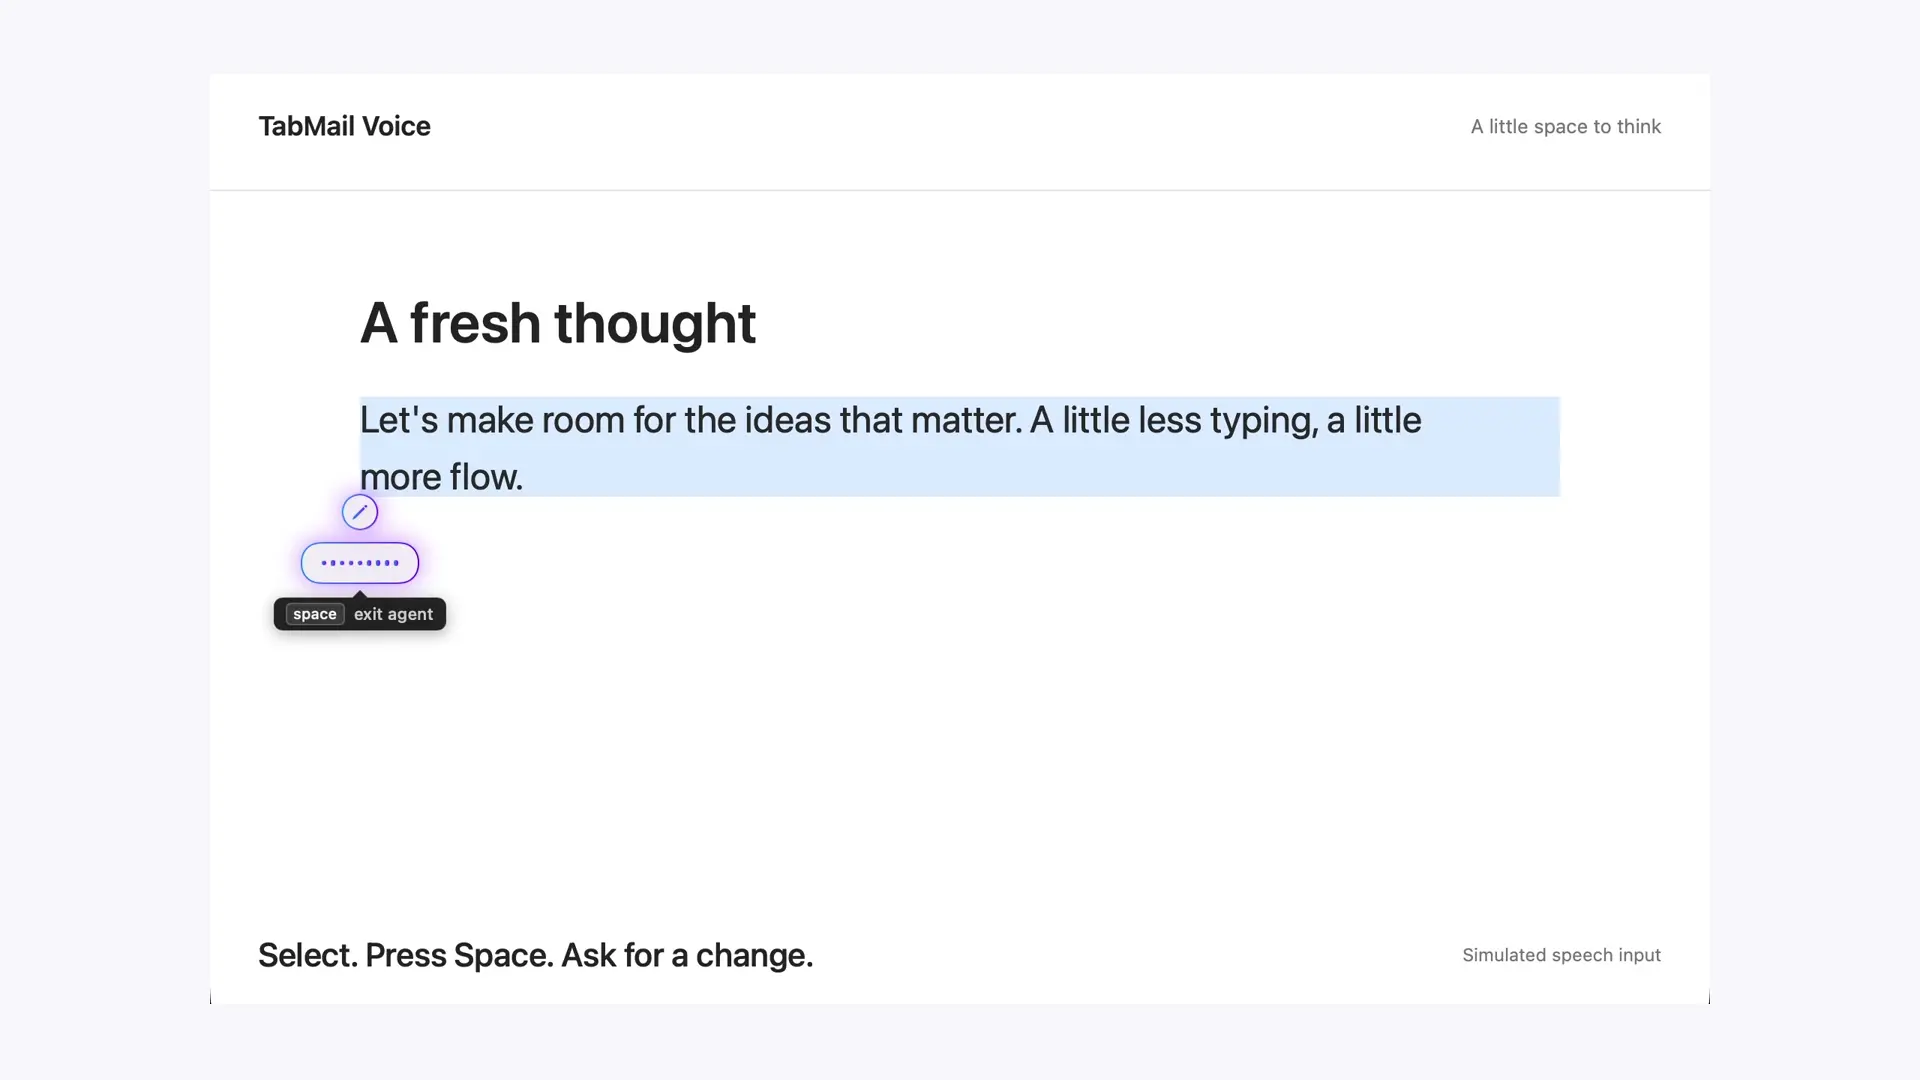
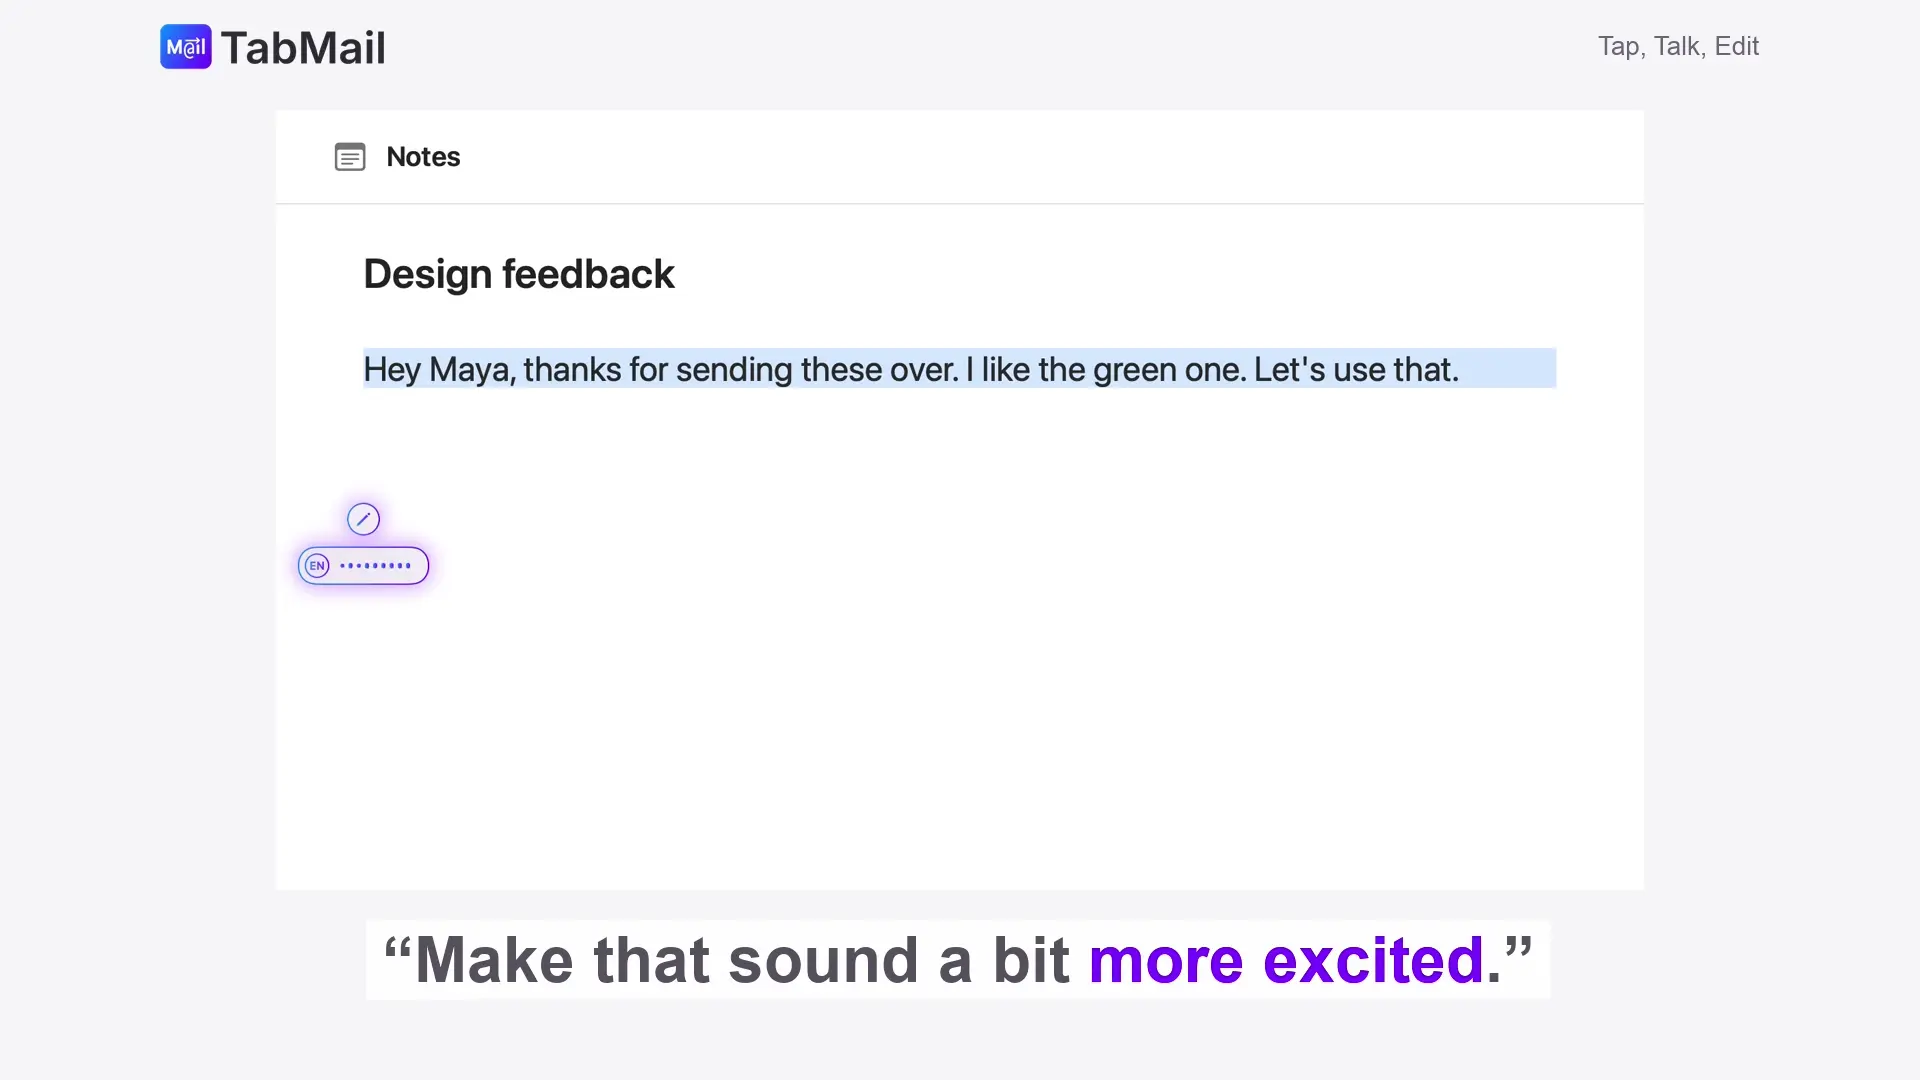
Match public README imagery to the language-pill demo

diff --git a/README.md b/README.md
@@ -13,8 +13,9 @@ Install **TabMail Voice.app** in Applications. It is separate from the TabMail T
 
 ![TabMail Voice editing selected text](docs/voice-edit.webp)
 
+![TabMail Voice composing from visible chat history](docs/voice-compose.webp)
+
 [Watch the silent demonstration](https://tabmail.ai/demos/tabmail-promo-voice.mp4).
-The demonstration uses the native overlay with simulated speech input.
 
 ## Build
 
@@ -57,6 +58,7 @@ Then sign in with your TabMail email in Settings (we email you a one-time code).
   into a pill whose waveform follows your voice once the microphone is listening. When you let
   go, the pill shrinks to a spinning circle while your words are transcribed, then the text is
   typed in.
+  The language badge follows the keyboard language selected when you start speaking.
   A quick tap does nothing.
 - Press **Space** while holding to toggle agent mode. With text selected, ask Voice to edit it; otherwise, ask it to compose.
 - Pressing another key while holding cancels (so ⌥-shortcuts keep working).
